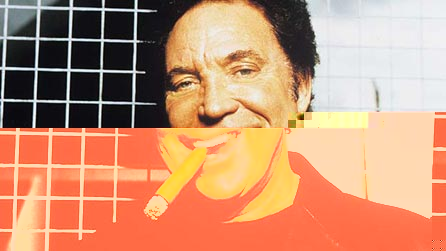
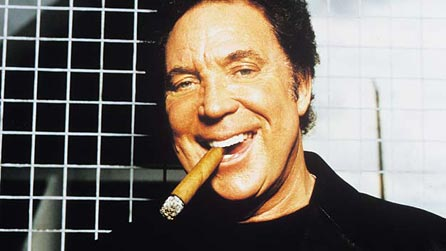
Fixed all images

diff --git a/OmniXaml/TestApplications/TestApplication/MainWindowViewModel.cs b/OmniXaml/TestApplications/TestApplication/MainWindowViewModel.cs
@@ -13,10 +13,10 @@
         {
             People = new Collection<PersonViewModel>()
             {
-                new PersonViewModel("Johnny", "Mnemonic", new Uri("Images/johnny_mnemonic.jpg", UriKind.Relative)),
+                new PersonViewModel("Johnny", "Mnemonic", new Uri("Images/johnny_mnemonic.png", UriKind.Relative)),
                 new PersonViewModel("Inspector", "Gadget", new Uri("Images/inspector_gadget.jpg", UriKind.Relative)),
                 new PersonViewModel("Tom", "Jones", new Uri("Images/tom_jones.jpg", UriKind.Relative)),
-                new PersonViewModel("Soap", "MacTavish", new Uri("Images/soap_mactavish.jpg", UriKind.Relative)),
+                new PersonViewModel("Soap", "MacTavish", new Uri("Images/soap_mactavish.png", UriKind.Relative)),
                 new PersonViewModel("Pino", "D'Angio", new Uri("Images/pino_dangio.jpg", UriKind.Relative))
             };
 
